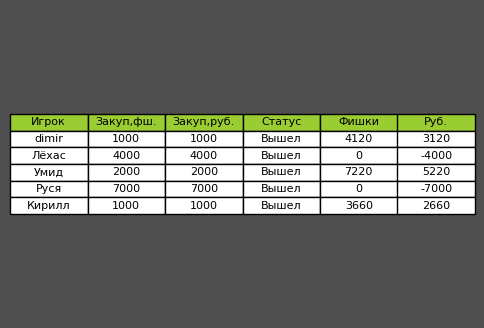
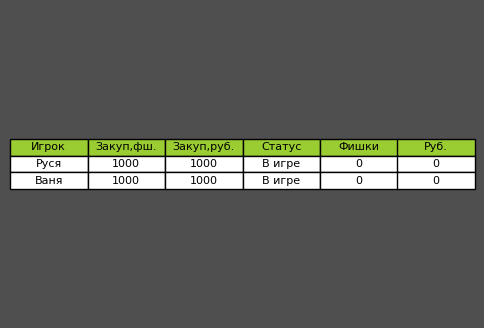
обновили README

Changed region(s): [[0.0, 0.3354, 0.9917, 0.6707]]

diff --git a/README.md b/README.md
@@ -24,7 +24,6 @@ Dimir Poker Bot <br>
 - Alembic (миграции базы данных)
 - PostgreSQL/asyncpg (асинхронное взаимодействие с БД)
 ### Вспомогательные библиотеки
-- Pydantic (валидация данных)
 - Pandas (анализ статистики)
 - Matplotlib (визуализация данных)
 ---
@@ -199,5 +198,5 @@ DimirPokerBot/
 Используем команду **past_games**\
 Или кнопку "**📅 Прошлые игры**" при старте бота\
 → Выбираем из списка нужную нам игру
-
+лориило
 <img src="assets/demo/last_game.gif" alt="Посмотреть прошлую игру" width="300">
